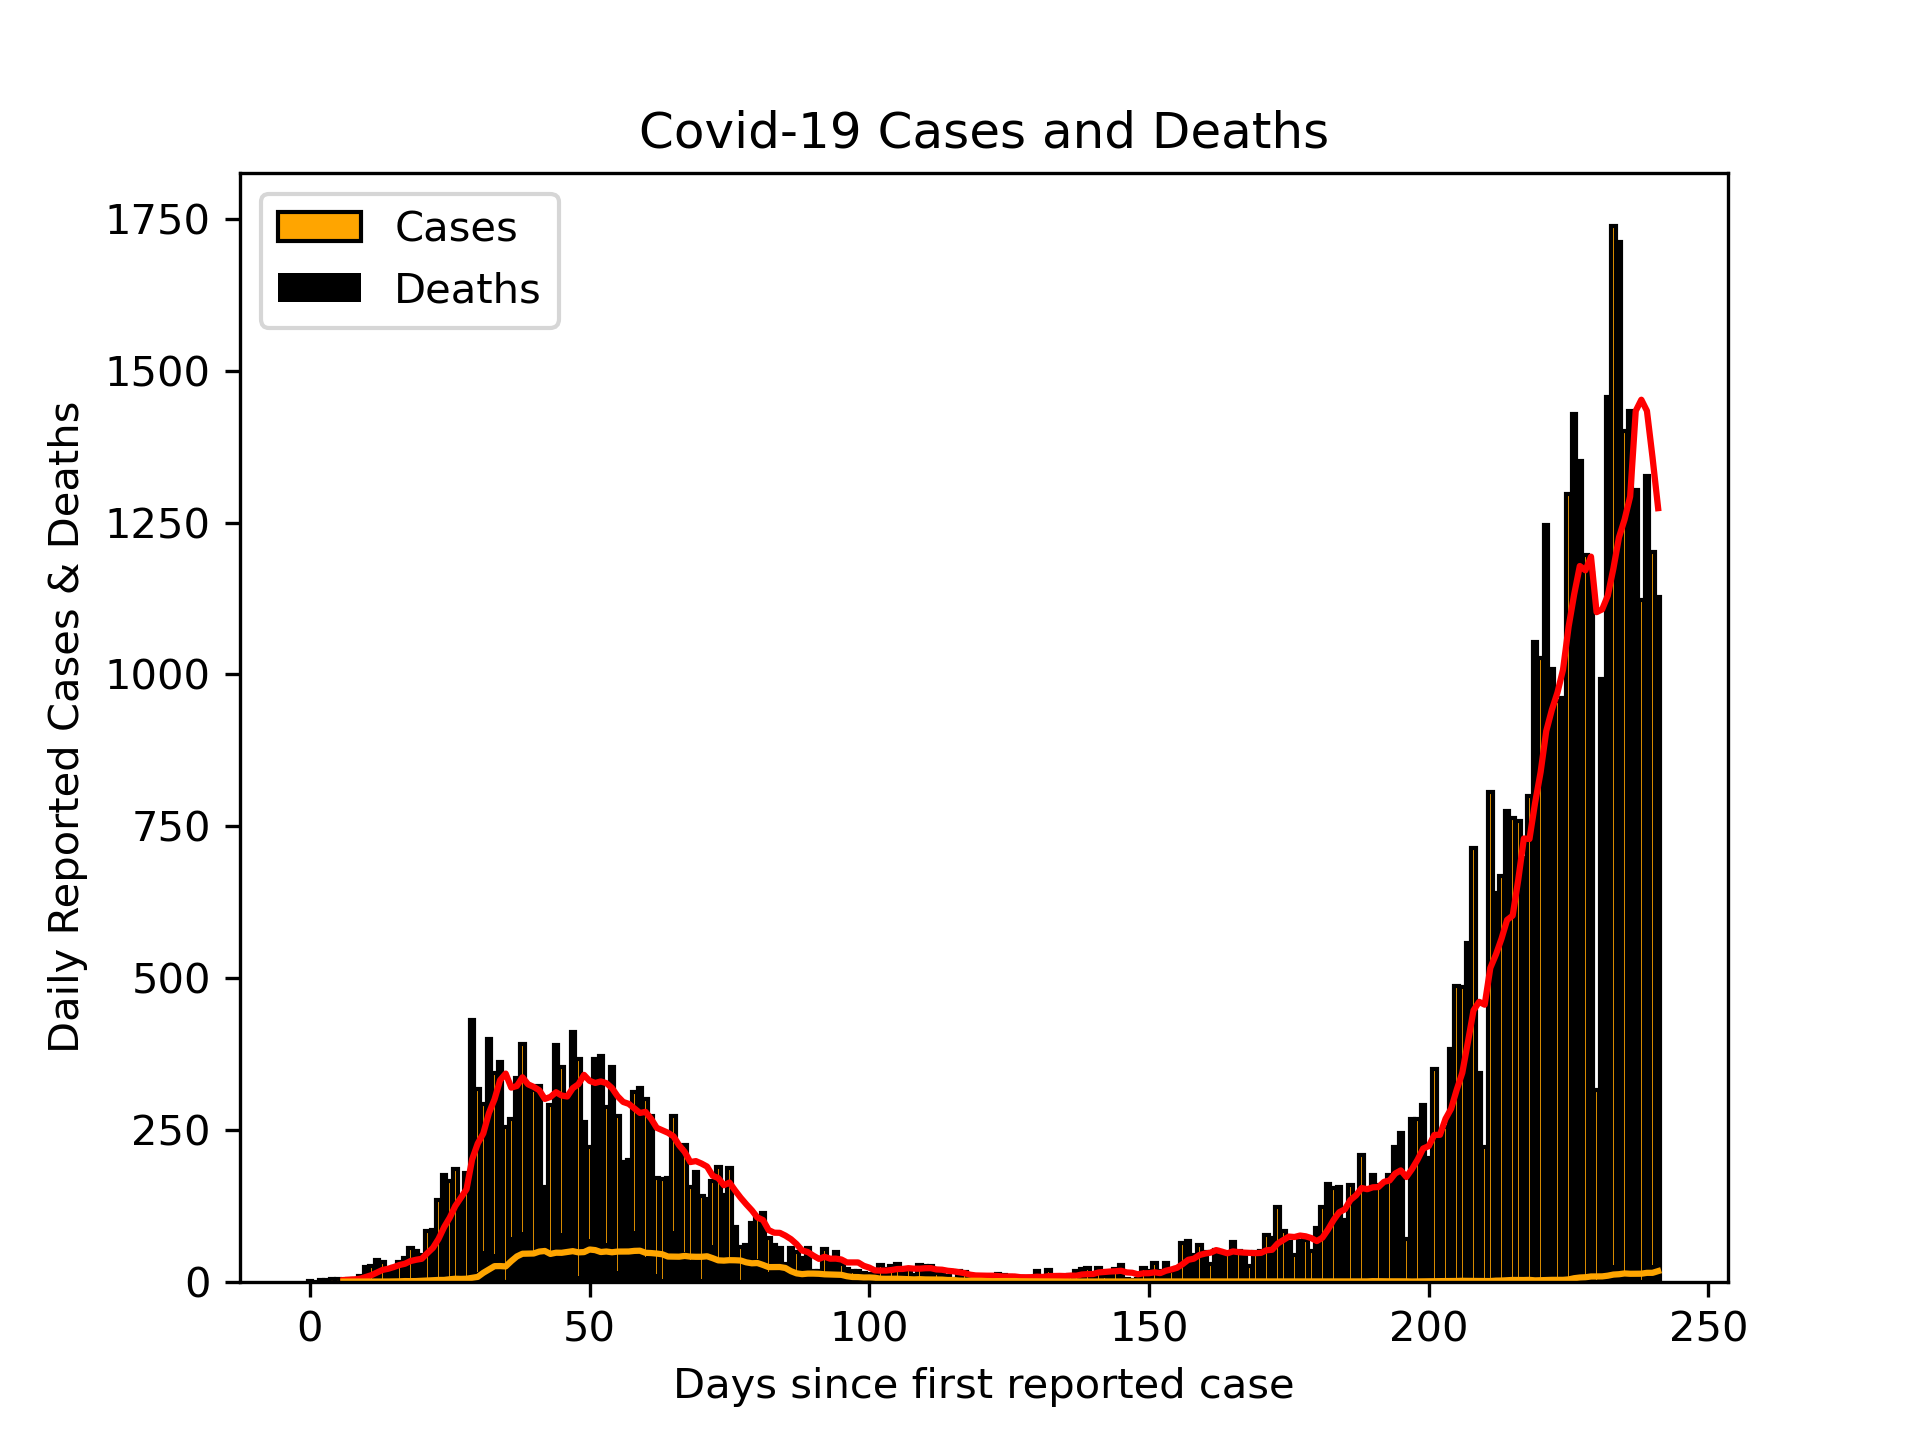
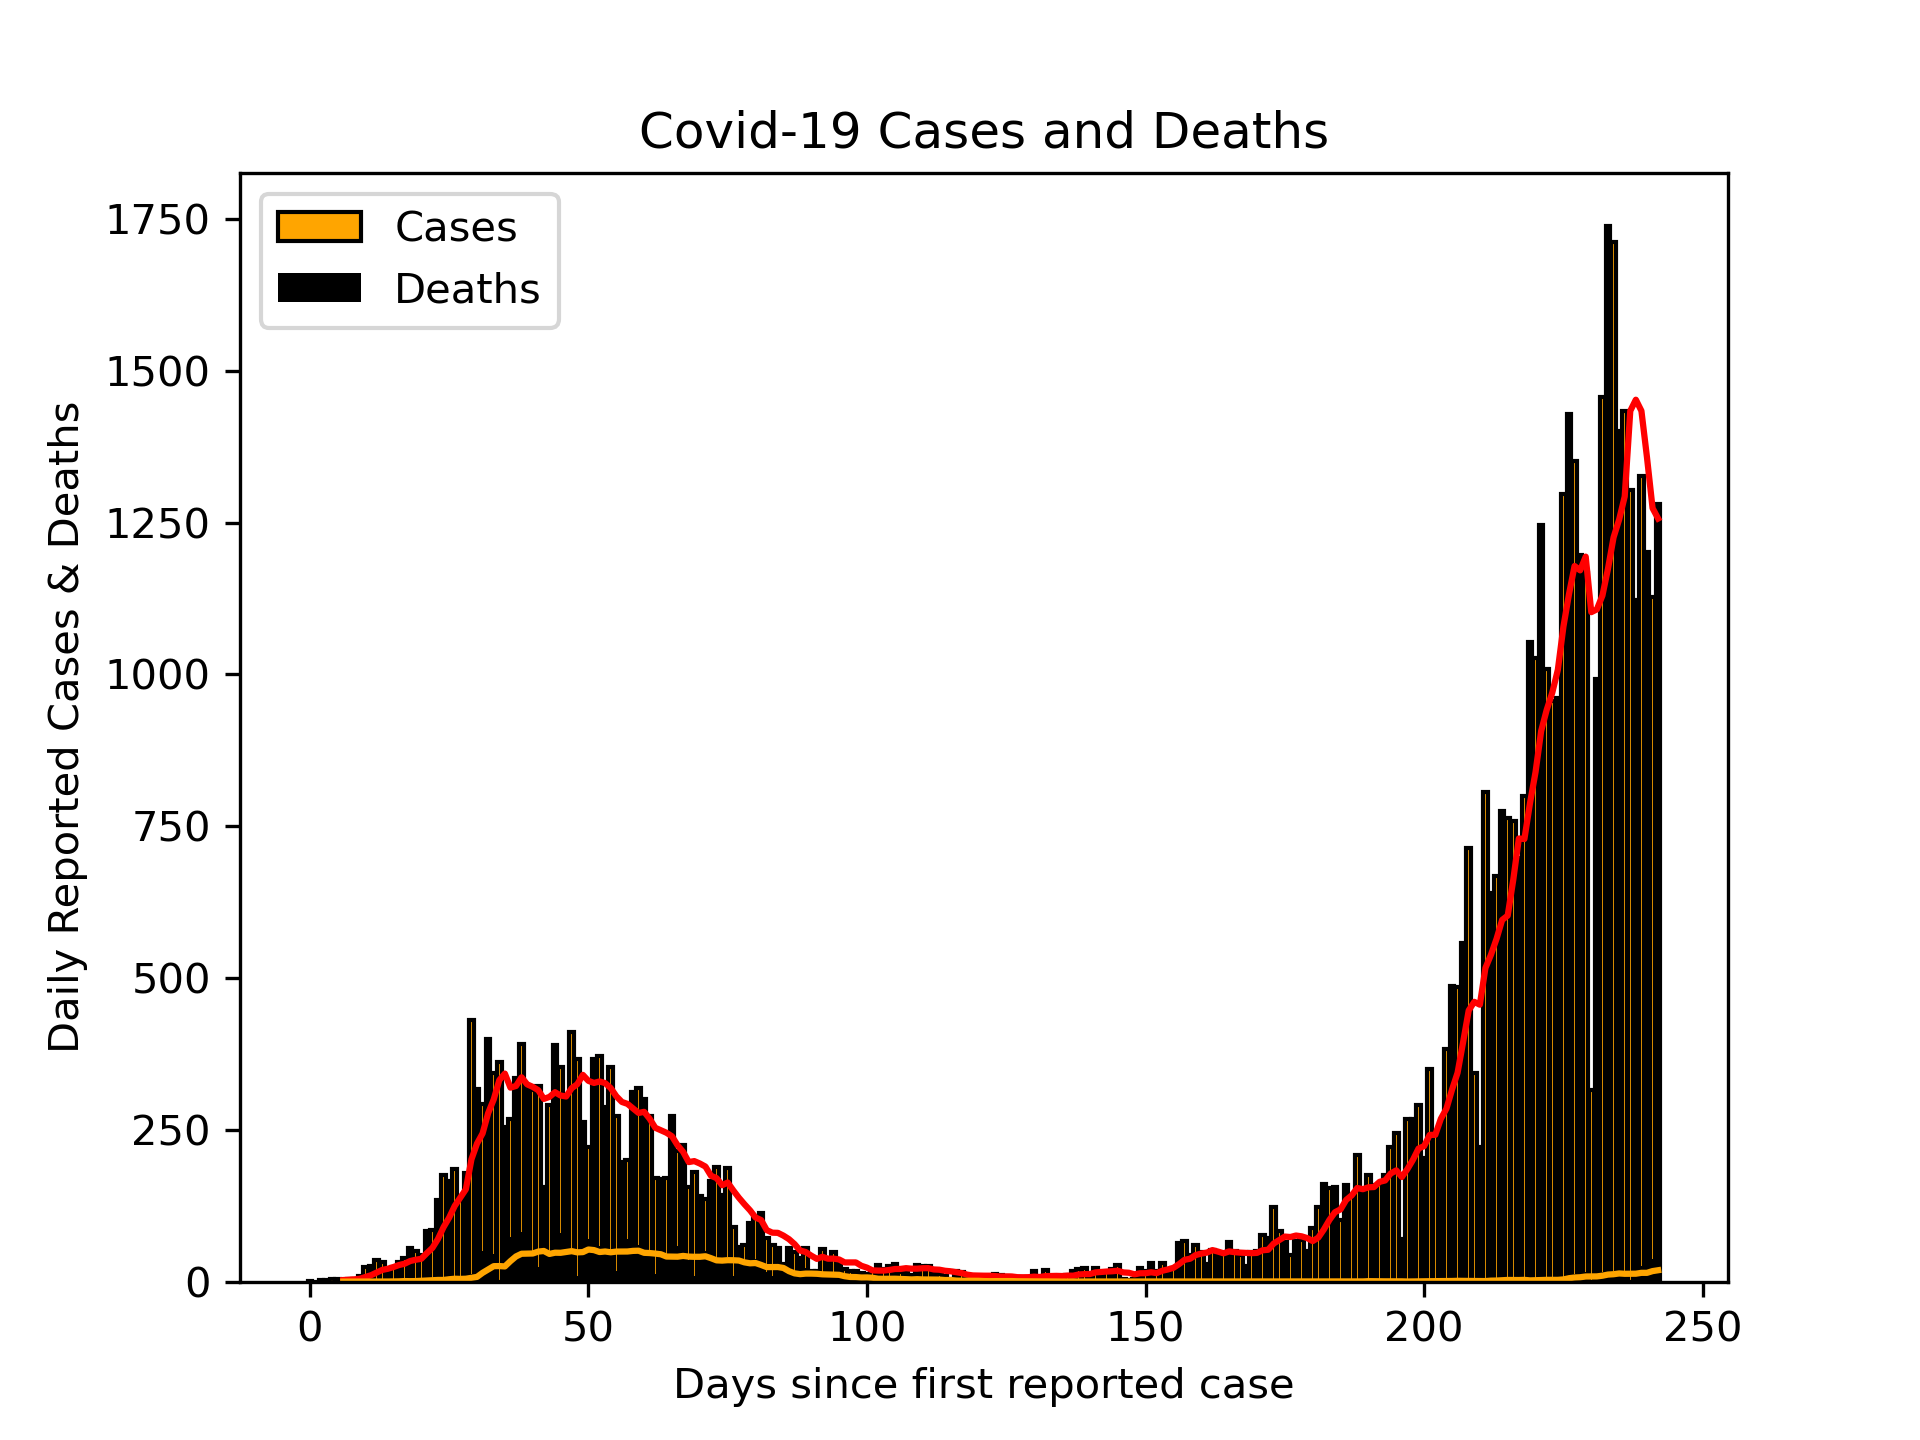
Updated Scottish cases 30/10/20

diff --git a/README.md b/README.md
@@ -1,3 +1,3 @@
-# Scottish Cases 29/10/20
+# Scottish Cases 30/10/20
 ![alt](scottish_cases.png)
 
